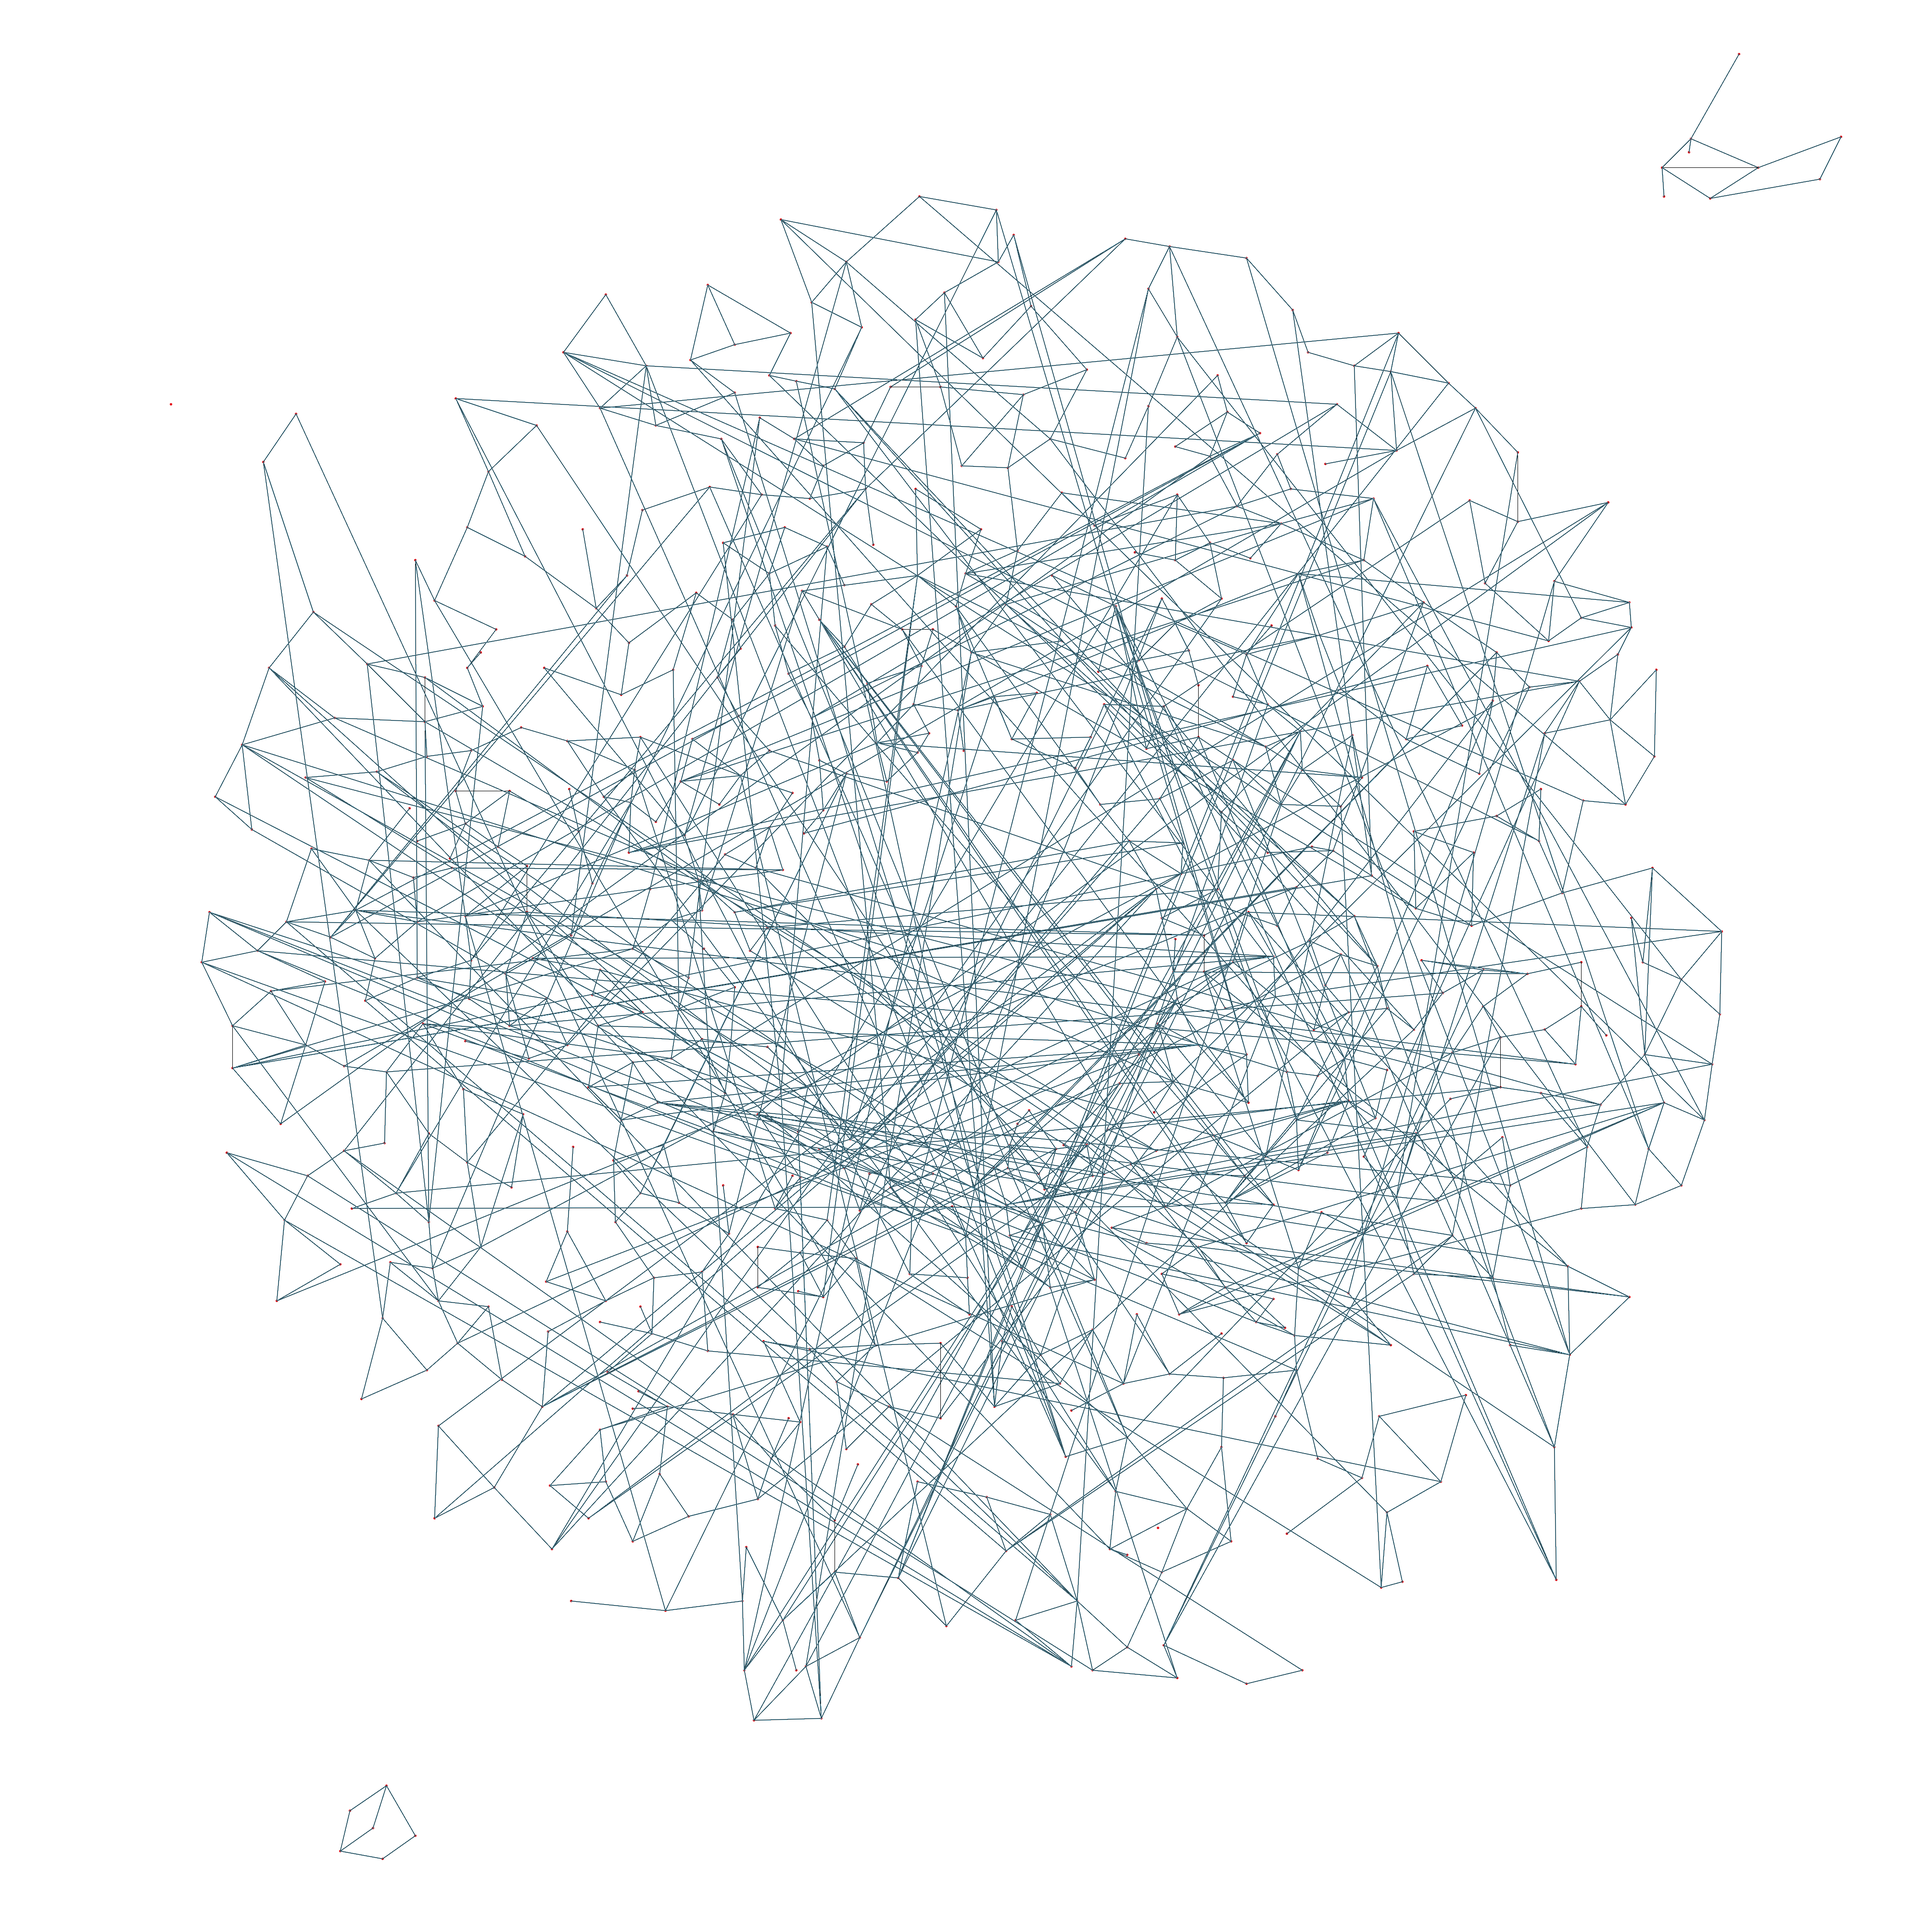
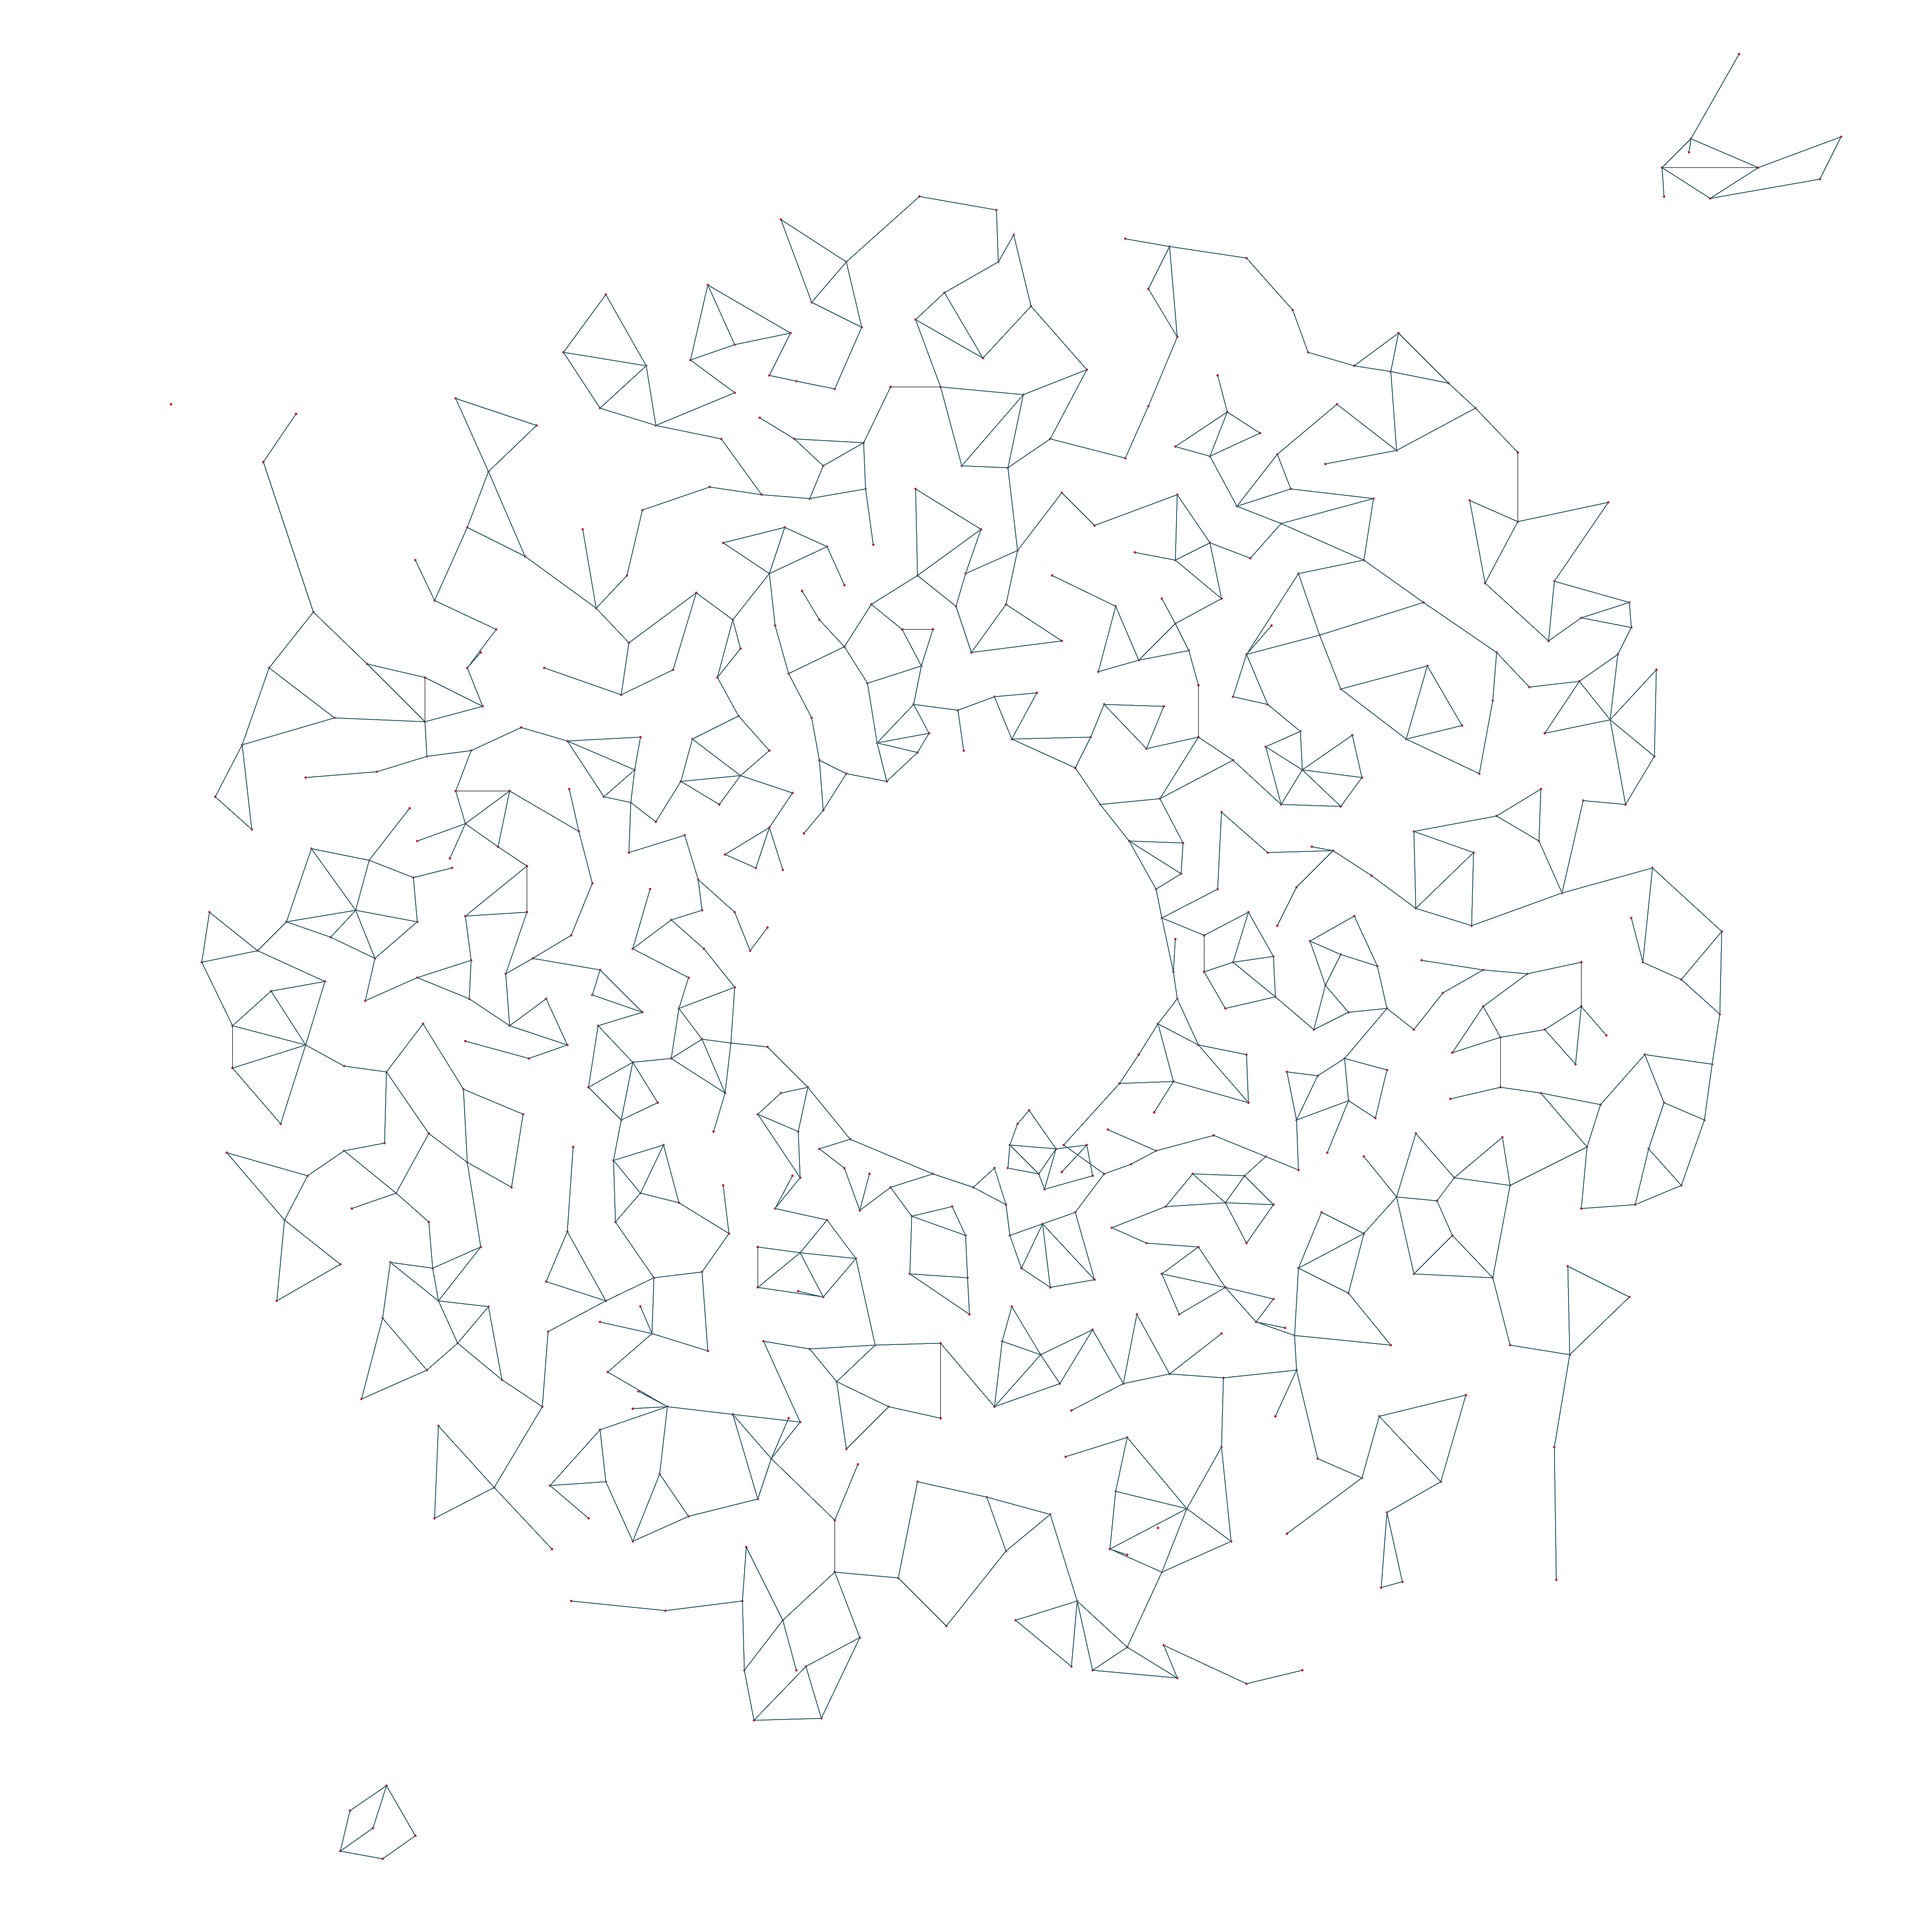
connections done

diff --git a/system.py b/system.py
@@ -61,6 +61,8 @@ def system_find_starbase_ID(line_number,gamestate):
 def system_find_connections(ID,line_number,gamestate):
     connections = []
     for sub_line_number in range(line_number + 1, line_number + 100):
+        if "coordinate={" in gamestate[sub_line_number]:
+            break        
         if "to=" in gamestate[sub_line_number]:
             target = int(gamestate[sub_line_number][19:])
             if target > ID:
